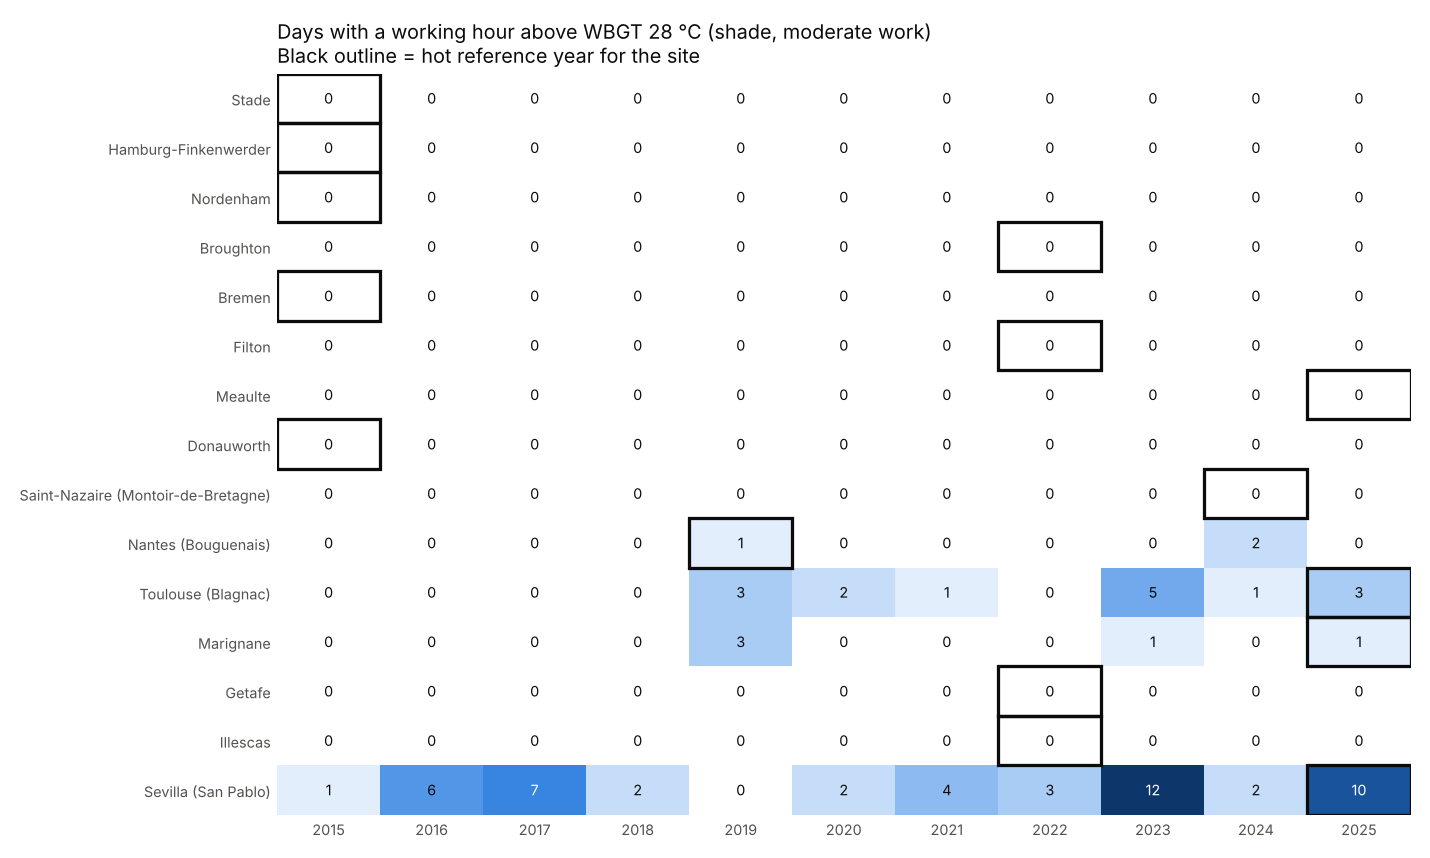
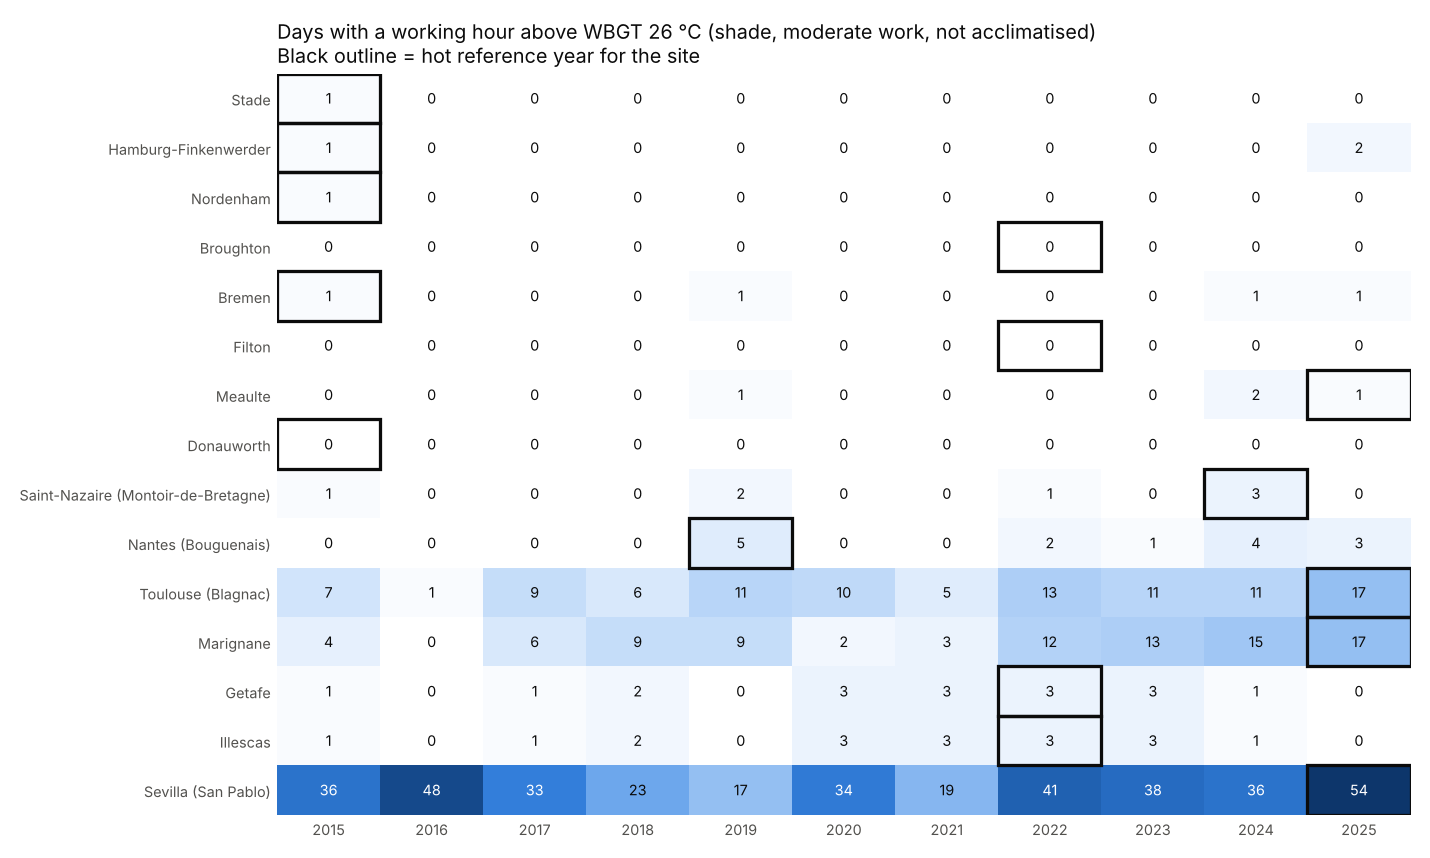
Phase 1 re-run with the 26 °C WBGT headline; phase 2 can reuse saved deltas
- Phase 1 outputs regenerated with the not-acclimatised reference (D58).
  Hot reference years are unchanged (they rank on degree-hours above 25 °C).
- phase2_future.py --reuse-deltas: morph with the climate change deltas from
  a previous run (outputs/phase2/deltas.parquet) instead of the NEX-GDDP
  download. The deltas depend only on the NEX data and the future config,
  so a change to the indicators does not need the multi-hour download.

Claude-Session: https://claude.ai/code/session_01UAW58ZJX5zmyhhYNK3mEvw

diff --git a/scripts/phase2_future.py b/scripts/phase2_future.py
@@ -7,7 +7,11 @@ For each site x model x scenario x period:
 Then ensemble summaries (typical = median year, hot = 90th percentile year; median and
 range across models), consistency checks, figures.
 
-Usage: python scripts/phase2_future.py [--sites SVQ,TLS]
+Usage: python scripts/phase2_future.py [--sites SVQ,TLS] [--reuse-deltas]
+
+--reuse-deltas takes the climate change deltas from a previous run (outputs/phase2/deltas.parquet)
+instead of the NEX-GDDP download. Use it when only the morphing or the indicators changed (e.g. a
+new WBGT reference); the deltas depend only on the NEX data and the future config.
 """
 
 from __future__ import annotations
@@ -58,7 +62,7 @@ def style(ax):
 
 def process_site(job):
     """Deltas, morphed years, annual indicators and morphed TMYs for one site (runs in a worker)."""
-    site_id, fc = job
+    site_id, fc, saved_deltas = job
     cfg = settings()
     b = cfg["baseline"]
     site = next(s for s in load_sites() if s.site_id == site_id)
@@ -72,11 +76,18 @@ def process_site(job):
     starts = hourly.index - pd.Timedelta(hours=1)
     hist_monthly = hourly["temp_air"].groupby(starts.month).mean()
     delta_frames, annual_rows, checks = [], [], []
+    if saved_deltas:
+        saved = pd.read_parquet(saved_deltas)
+        saved = {k: g.drop(columns=["site_id", "model", "scenario", "period"]).reset_index(drop=True)
+                 for k, g in saved[saved.site_id == site_id].groupby(["model", "scenario", "period"])}
     for model in fc["models"]:
         for scen in fc["scenarios"]:
             for period, window in fc["periods"].items():
-                d = dl.site_deltas(site.site_id, model, scen, tuple(fc["baseline_years"]), tuple(window),
-                                   fc["temperature_quantiles"])
+                if saved_deltas:
+                    d = saved[(model, scen, period)]
+                else:
+                    d = dl.site_deltas(site.site_id, model, scen, tuple(fc["baseline_years"]), tuple(window),
+                                       fc["temperature_quantiles"])
                 delta_frames.append(d.assign(site_id=site.site_id, model=model, scenario=scen, period=period))
                 fut = morph.morph(hourly, d, base_daily)
                 probs = weather.validate(fut)
@@ -110,6 +121,8 @@ def main() -> None:
     ap.add_argument("--models", default="", help="comma list; default all configured models")
     ap.add_argument("--out", default="", help="override output folder (for trial runs)")
     ap.add_argument("--workers", type=int, default=4)
+    ap.add_argument("--reuse-deltas", action="store_true",
+                    help="use outputs/phase2/deltas.parquet from a previous run instead of the NEX download")
     args = ap.parse_args()
 
     cfg = settings()
@@ -125,7 +138,10 @@ def main() -> None:
     for d in (OUT, FIG, FUT / "tmy", FUT / "hot_year"):
         d.mkdir(parents=True, exist_ok=True)
 
-    jobs = [(site.site_id, fc) for site in sites]
+    saved_deltas = ""
+    if args.reuse_deltas:
+        saved_deltas = str(ROOT / "outputs" / "phase2" / "deltas.parquet")
+    jobs = [(site.site_id, fc, saved_deltas) for site in sites]
     with ProcessPoolExecutor(max_workers=min(args.workers, len(jobs))) as pool:
         results = list(pool.map(process_site, jobs))
     delta_frames = [f for r in results for f in r[0]]
